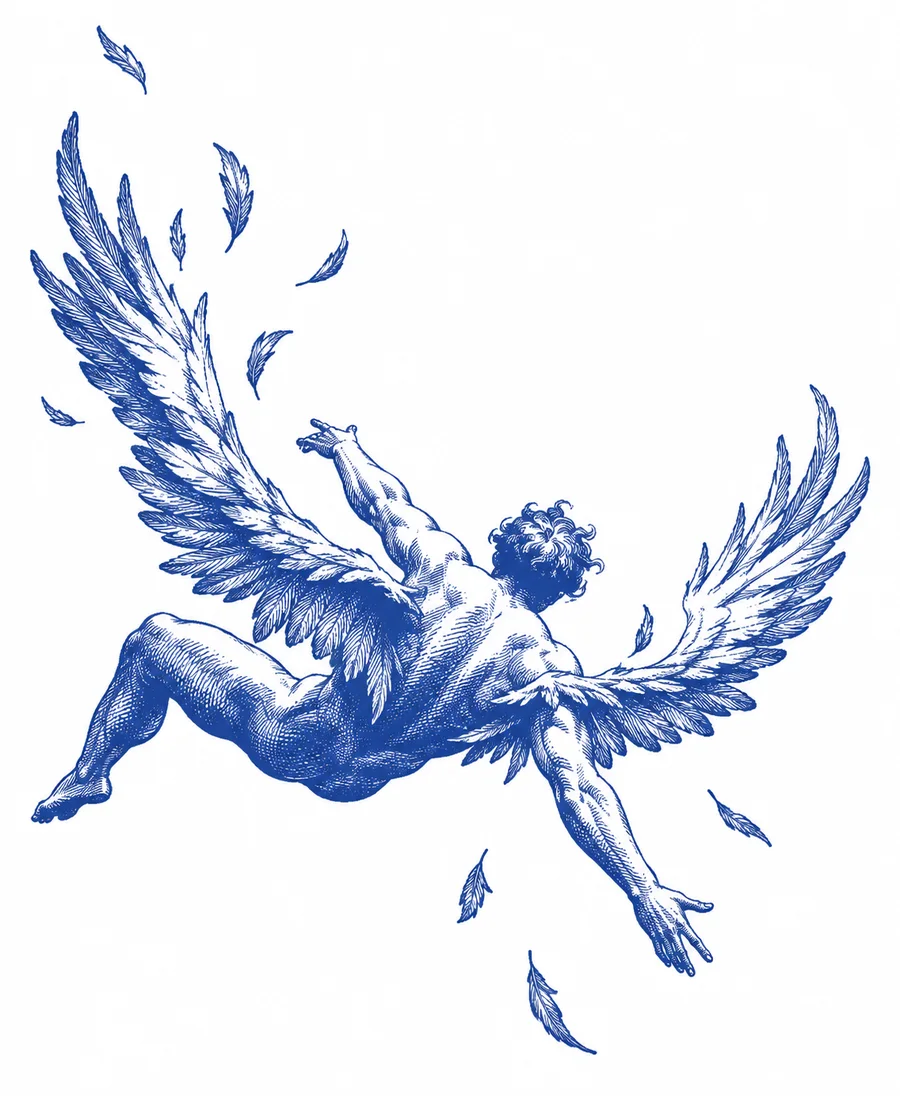
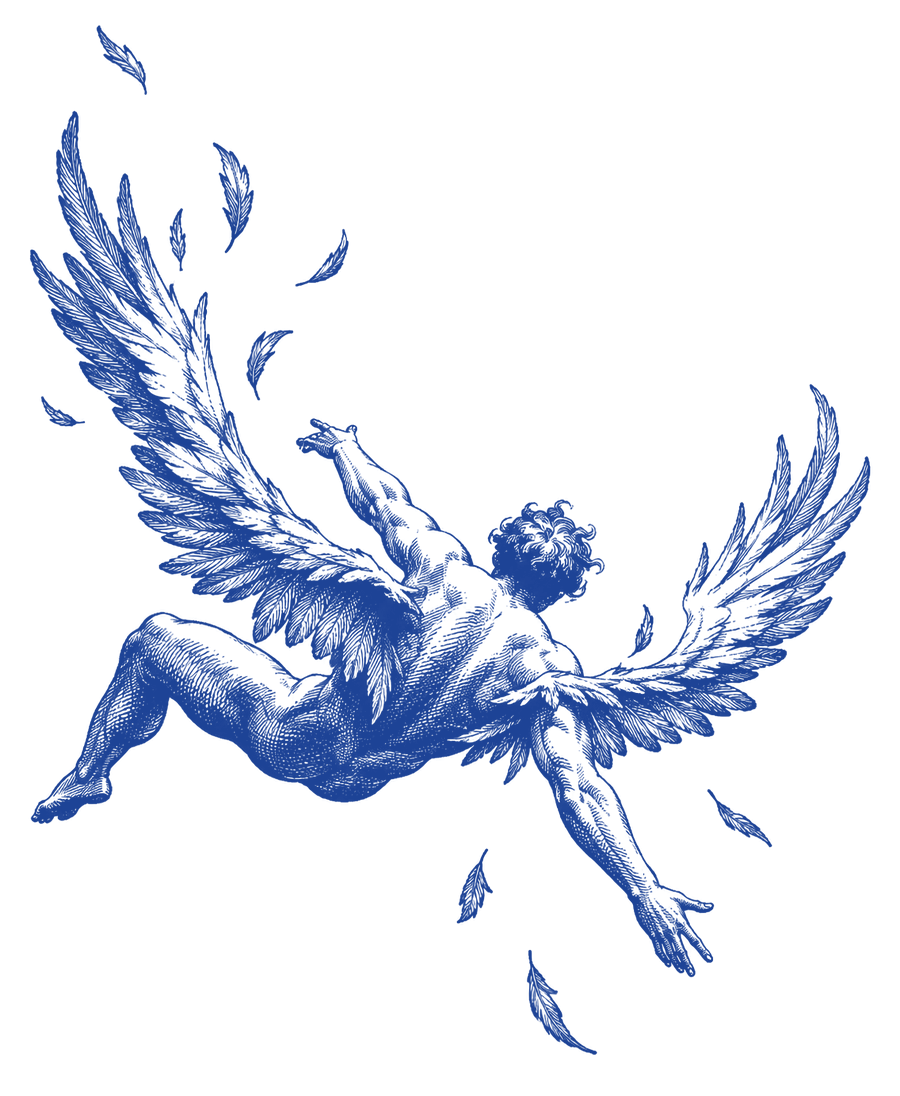
Vekon home, mobile: Icarus as a transparent ink layer (no blend mode, no black ground)
Claude-Session: https://claude.ai/code/session_01JaNETq7G3Y73zPTxsU4sbx

diff --git a/src/components/vekon/vekon-home.css b/src/components/vekon/vekon-home.css
@@ -589,3 +589,6 @@ html[data-script="cjk"] .vh-title{line-height:1.2}
     -webkit-mask-image:radial-gradient(ellipse 72% 70% at 50% 50%,#000 62%,transparent 100%);mask-image:radial-gradient(ellipse 72% 70% at 50% 50%,#000 62%,transparent 100%)}
   .vh-plate figcaption{border-top:0!important;justify-content:center;gap:10px;margin-top:-6px}
 }
+/* the print is now a transparent ink layer: no blend mode (some phones
+   painted the blended image on black) */
+@media (max-width:900px){.vh-plate__img{mix-blend-mode:normal!important;opacity:.95}}
